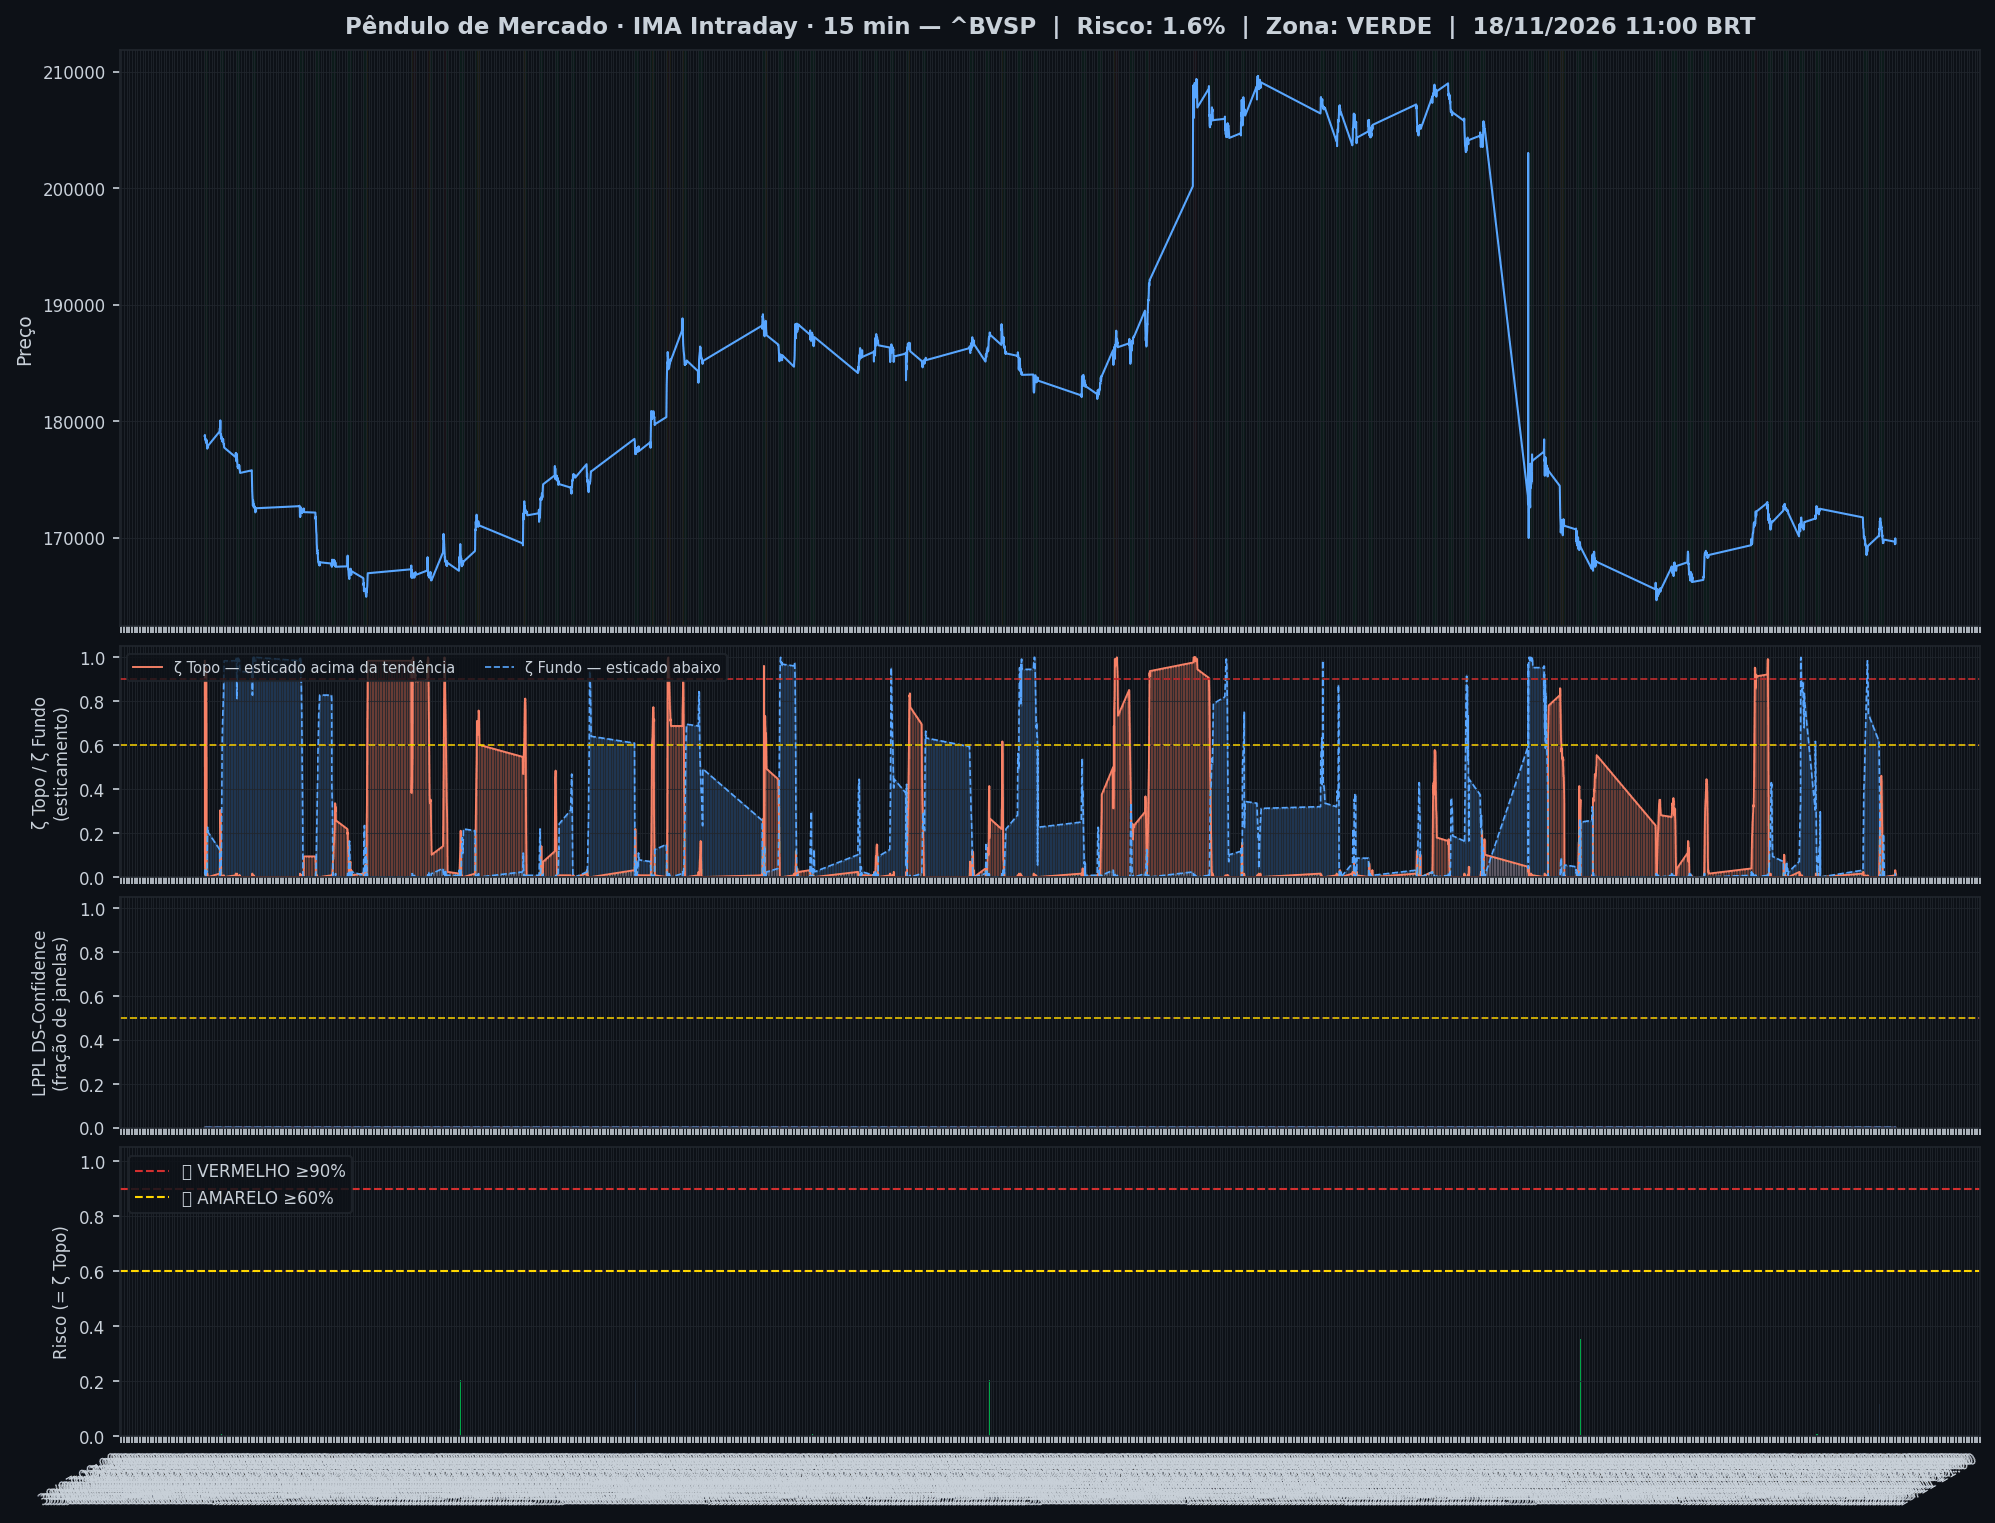
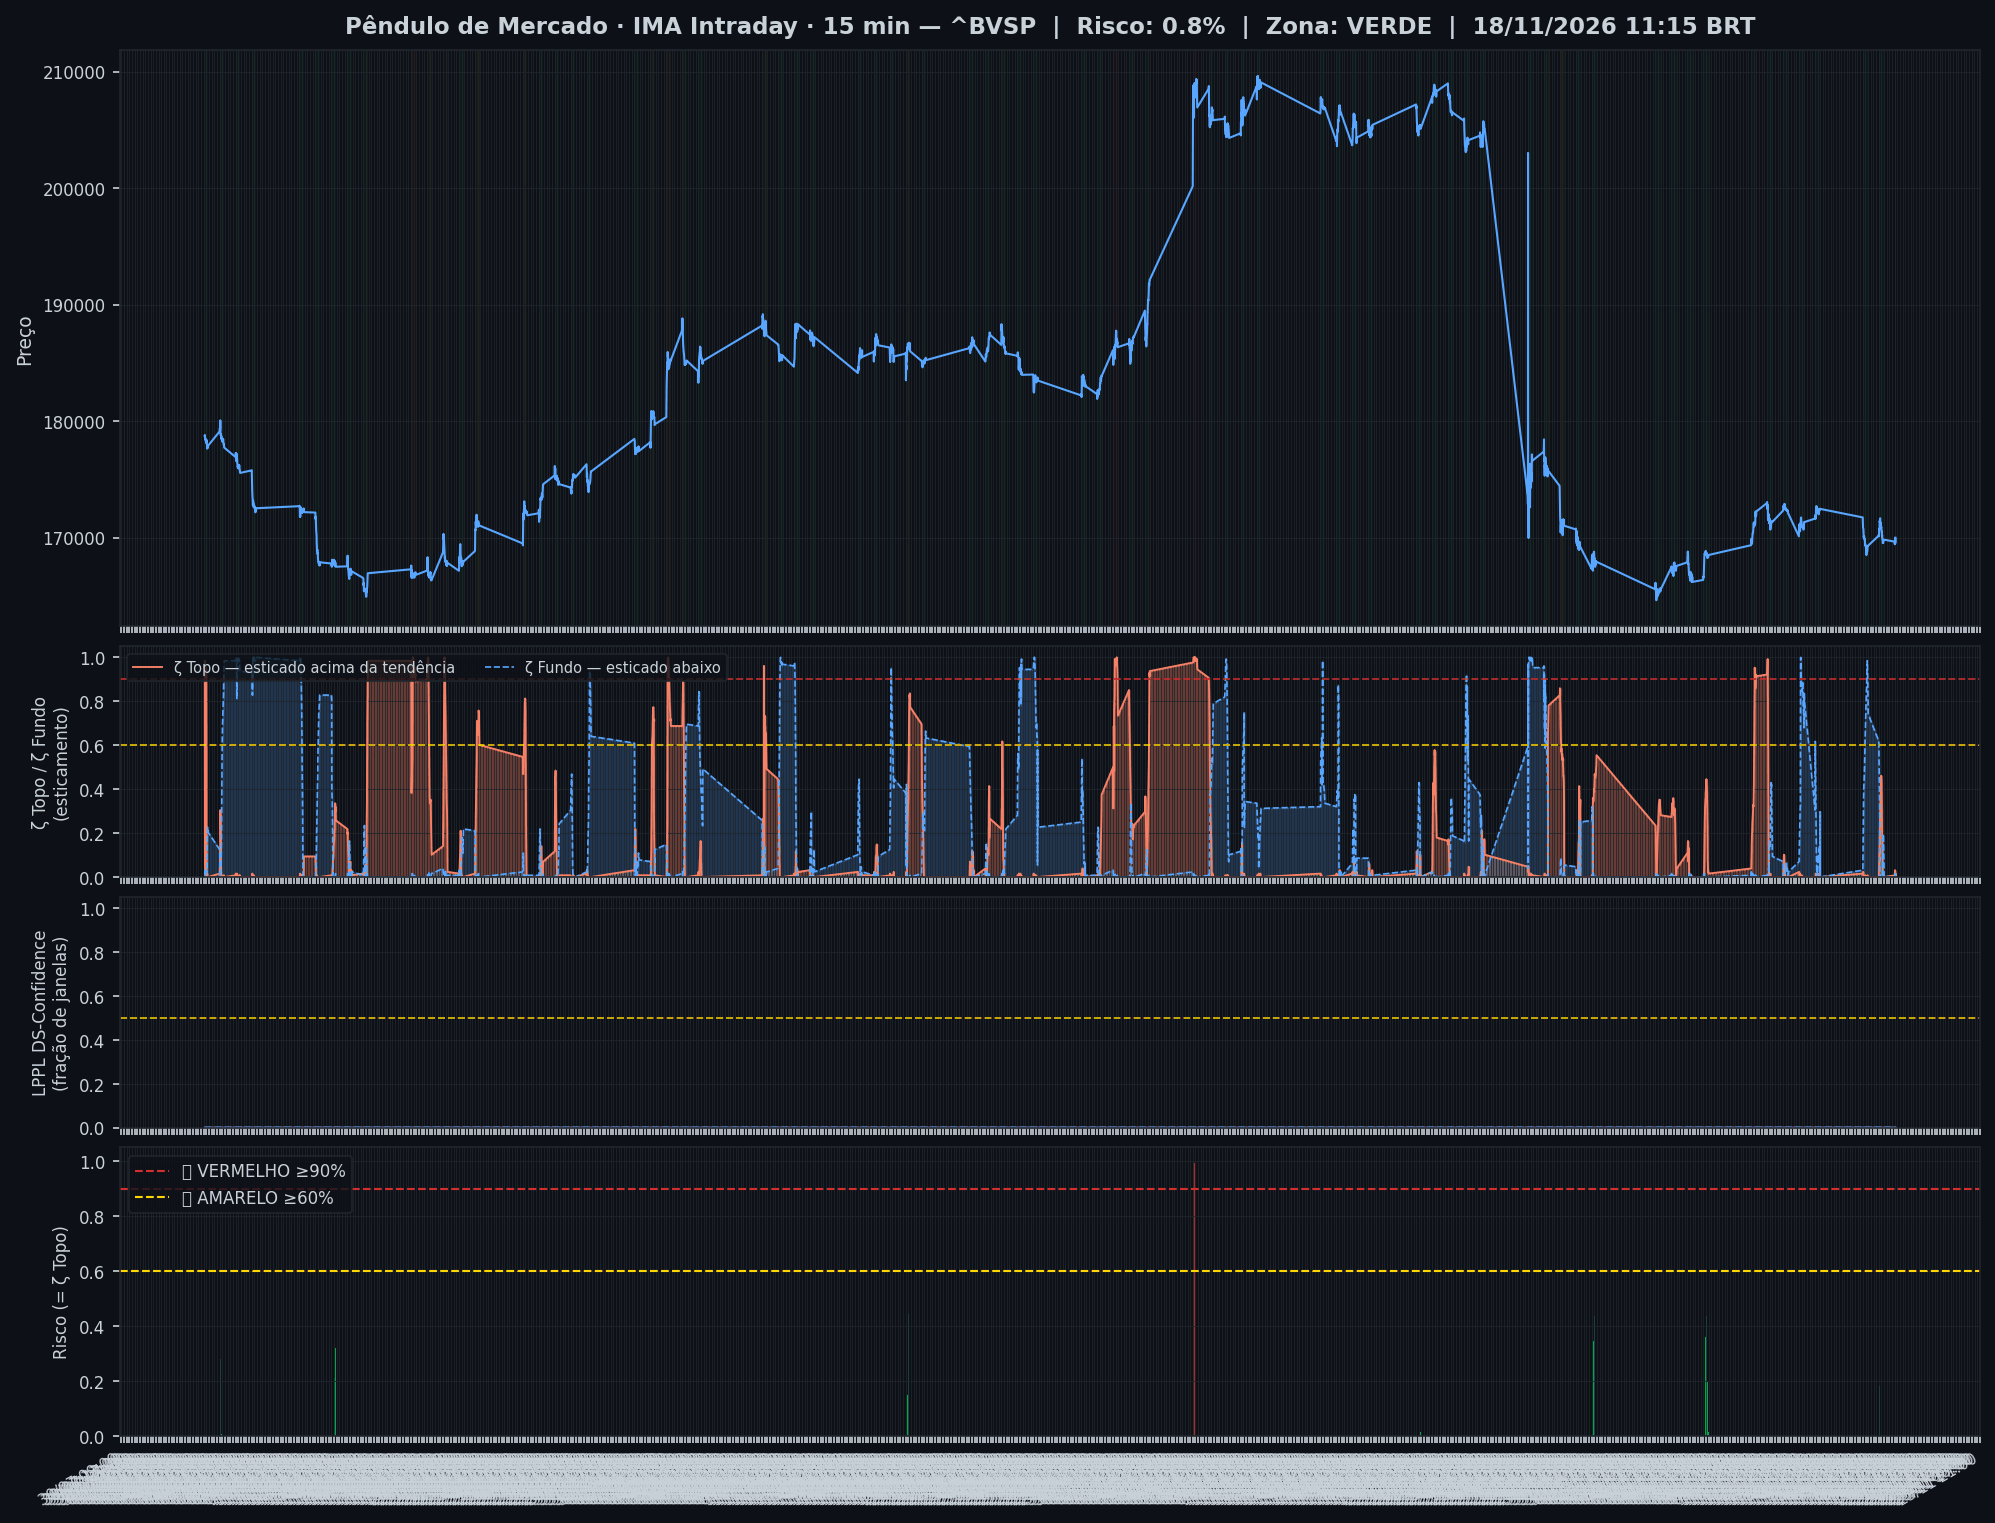
🤖 Auto: Sinal 18/11/2026 11:31

diff --git a/content/intraday/2026-11-18.md b/content/intraday/2026-11-18.md
@@ -1,10 +1,10 @@
 ---
-title: "🟢 Intraday 18/11/2026 11:00 BRT — VERDE"
+title: "🟢 Intraday 18/11/2026 11:15 BRT — VERDE"
 date: 2026-11-18
 tags: [intraday]
 ---
 
-> [!success] Onde o mercado está agora (18/11 11:00, candles de 15 min): **🟢 Calmo**
+> [!success] Onde o mercado está agora (18/11 11:15, candles de 15 min): **🟢 Calmo**
 > `Pânico ◀──────────●──────────▶ Euforia`
 >
 > O Ibovespa está dentro da sua faixa normal, sem excesso para cima nem para baixo.
@@ -20,7 +20,7 @@ tags: [intraday]
 > | 📍 **Sinais** | hoje: nenhum sinal | [abrir](sinais-topo-fundo/) |
 > | 🧪 **Placar ao vivo** | 1 operação(ões), 0 com lucro, soma -0,8% | [abrir](operacoes/) |
 
-> [!success] IMA Intraday · 15 min (18/11 11:00): 🟢 **VERDE** — Risco 2% · ▲ +1 p.p. vs leitura anterior
+> [!success] IMA Intraday · 15 min (18/11 11:15): 🟢 **VERDE** — Risco 1% · ▼ -1 p.p. vs leitura anterior
 > `░░░░░░░░░░░░░░░░░░░░`
 > Preço na faixa normal em torno da tendência.
 
@@ -32,13 +32,13 @@ tags: [intraday]
 >
 > *Leitura educacional baseada em 26 anos de dados, não recomendação. [Como usar](../metodologia/crise#3-como-usar-na-prática).*
 
-| Indicador — IMA Intraday · 15 min (18/11 11:00) | Valor |
+| Indicador — IMA Intraday · 15 min (18/11 11:15) | Valor |
 |---|---|
-| 🔴 ζ Topo — preço esticado acima da tendência | **2%** |
-| 🔵 ζ Fundo — preço esticado abaixo da tendência | 2% |
+| 🔴 ζ Topo — preço esticado acima da tendência | **1%** |
+| 🔵 ζ Fundo — preço esticado abaixo da tendência | 1% |
 | 🫧 LPPL bolha — alta super-exponencial (risco de crash) | 0% |
 | 🫧 LPPL antibolha — queda super-exponencial (risco de repique) | 0% |
-| 📊 Ibovespa | 169.500 pts |
+| 📊 Ibovespa | 169.989 pts |
 
 ![Gráfico do sinal](../graficos/sinal_intraday.png)
 
@@ -46,6 +46,7 @@ tags: [intraday]
 
 | Data | Zona | Evento | Risco | ζ Topo | ζ Fundo | LPPL |
 |---|---|---|---|---|---|---|
+| 2026-11-18 11:15 | 🟢 VERDE |  | **1%** | 1% | 1% | 0% |
 | 2026-11-18 11:00 | 🟢 VERDE |  | **2%** | 2% | 2% | 0% |
 | 2026-11-18 10:45 | 🟢 VERDE |  | **1%** | 1% | 2% | 0% |
 | 2026-11-18 10:30 | 🟢 VERDE |  | **2%** | 2% | 2% | 0% |
@@ -75,49 +76,51 @@ tags: [intraday]
 | 2026-11-17 12:45 | 🟢 VERDE |  | **38%** | 38% | 0% | 0% |
 | 2026-11-17 12:30 | 🟢 VERDE |  | **37%** | 37% | 0% | 0% |
 | 2026-11-17 12:15 | 🟢 VERDE |  | **33%** | 33% | 0% | 0% |
-| 2026-11-17 12:00 | 🟢 VERDE |  | **29%** | 29% | 1% | 0% |
 
 <small>Destaques: 🟡 ≥ 60% · 🔴 ≥ 90% (Risco e ζ Topo) · 🔵 ≥ 60% · 🔪 ≥ 90% (ζ Fundo) · 🫧 ≥ 30% · 🫧🔴 ≥ 50% (LPPL)</small>
 
 ## Monitor Multi-Ativo
 
-**0% dos ativos em tensão** (0🔴 0🟡) · **0 com ζ Fundo alto** — quanto mais ativos disparam juntos, mais confiável o sinal.
+**0% dos ativos em tensão** (0🔴 0🟡) · **1 com ζ Fundo alto** — quanto mais ativos disparam juntos, mais confiável o sinal.
+
+> [!warning] Em destaque no multi-ativo
+> 🔵 **SUZANO S.A.** ζ Fundo 70%
 
 | Zona | Ativo | Setor | ζ Topo | ζ Fundo |
 |---|---|---|---|---|
-| 🟢 | **AMBEV S/A** | Consumo | 0.0% | 59.4% |
-| 🟢 | **PRIO** | Petróleo | 0.0% | 51.6% |
-| 🟢 | **PETROBRAS** | Petróleo | 0.0% | 46.1% |
-| 🟢 | **BTGP BANCO** | Financeiro | 0.0% | 43.0% |
-| 🟢 | **BRASIL** | Financeiro | 0.8% | 36.7% |
-| 🟢 | **REDE D OR** | Saúde | 33.6% | 0.0% |
-| 🟢 | **LOCALIZA** | Aluguel | 28.9% | 0.8% |
-| 🟢 | **USD/BRL** | Câmbio | 3.9% | 24.2% |
-| 🟢 | **ENEVA** | Energia | 0.0% | 23.4% |
-| 🟢 | **RUMO S.A.** | Outros | 0.0% | 21.9% |
-| 🟢 | **WEG** | Industrial | 4.7% | 20.3% |
-| 🟢 | **VIBRA** | Energia | 0.0% | 19.5% |
-| 🟢 | **AXIA ENERGIA** | Energia | 0.0% | 16.4% |
-| 🟢 | **B3** | Financeiro | 1.6% | 16.4% |
-| 🟢 | **GERDAU** | Siderurgia | 16.4% | 0.8% |
-| 🟢 | **VALE** | Mineração | 0.0% | 10.9% |
-| 🟢 | **ULTRAPAR** | Outros | 0.0% | 10.9% |
-| 🟢 | **ITAUUNIBANCO** | Financeiro | 0.0% | 10.2% |
-| 🟢 | **SUZANO S.A.** | Papel/Celulose | 9.4% | 3.9% |
-| 🟢 | **BRADESCO** | Financeiro | 7.8% | 0.8% |
-| 🟢 | **EMBRAER** | Outros | 0.8% | 5.5% |
-| 🟢 | **SABESP** | Saneamento | 0.0% | 3.9% |
-| 🟢 | **TELEF BRASIL** | Outros | 0.8% | 3.9% |
-| 🟢 | **ITAUSA** | Financeiro | 0.0% | 3.1% |
-| 🟢 | **EQUATORIAL** | Energia | 0.0% | 2.3% |
-| 🟢 | **PETROBRAS** | Petróleo | 0.8% | 1.6% |
+| 🟢 | **SUZANO S.A.** | Papel/Celulose | 7.8% | 🔵 **69.5%** |
+| 🟢 | **AMBEV S/A** | Consumo | 0.0% | 56.2% |
+| 🟢 | **PETROBRAS** | Petróleo | 0.0% | 53.9% |
+| 🟢 | **PRIO** | Petróleo | 0.0% | 53.9% |
+| 🟢 | **BRASIL** | Financeiro | 1.6% | 34.4% |
+| 🟢 | **REDE D OR** | Saúde | 34.4% | 0.0% |
+| 🟢 | **ENEVA** | Energia | 0.8% | 32.8% |
+| 🟢 | **LOCALIZA** | Aluguel | 32.0% | 0.8% |
+| 🟢 | **USD/BRL** | Câmbio | 1.6% | 24.2% |
+| 🟢 | **RUMO S.A.** | Outros | 0.0% | 23.4% |
+| 🟢 | **GERDAU** | Siderurgia | 20.3% | 0.8% |
+| 🟢 | **B3** | Financeiro | 0.0% | 19.5% |
+| 🟢 | **WEG** | Industrial | 3.9% | 16.4% |
+| 🟢 | **VIBRA** | Energia | 0.0% | 15.6% |
+| 🟢 | **VALE** | Mineração | 0.8% | 12.5% |
+| 🟢 | **AXIA ENERGIA** | Energia | 0.0% | 11.7% |
+| 🟢 | **BRADESCO** | Financeiro | 10.2% | 0.0% |
+| 🟢 | **BTGP BANCO** | Financeiro | 0.0% | 8.6% |
+| 🟢 | **ULTRAPAR** | Outros | 0.0% | 7.8% |
+| 🟢 | **ITAUUNIBANCO** | Financeiro | 0.8% | 7.0% |
+| 🟢 | **SABESP** | Saneamento | 0.0% | 4.7% |
+| 🟢 | **TELEF BRASIL** | Outros | 0.0% | 4.7% |
+| 🟢 | **EMBRAER** | Outros | 2.3% | 3.9% |
+| 🟢 | **EQUATORIAL** | Energia | 0.0% | 3.1% |
+| 🟢 | **ITAUSA** | Financeiro | 0.0% | 2.3% |
+| 🟢 | **PETROBRAS** | Petróleo | 0.0% | 0.8% |
 | 🟢 | **COPEL** | Energia | 0.8% | 0.8% |
 
 <small>Destaques: 🟡 ≥ 60% · 🔴 ≥ 90% (Risco e ζ Topo) · 🔵 ≥ 60% · 🔪 ≥ 90% (ζ Fundo) · 🫧 ≥ 30% · 🫧🔴 ≥ 50% (LPPL)</small>
 
 ![Monitor multi-ativo](../graficos/multi_intraday.png)
 
-*Página atualizada em 18/11/2026 11:15 BRT (leitura da barra de 2026-11-18 11:00 BRT).*
+*Página atualizada em 18/11/2026 11:30 BRT (leitura da barra de 2026-11-18 11:15 BRT).*
 
 > [!warning] O que este indicador não faz
 > Medido em 5 anos de Ibovespa, o ζ **não antecipa** topos nem fundos: a capacidade de separar o que sobe do que cai ficou em 0,49–0,52, e 0,50 é moeda jogada ao ar. Ele descreve o estado de agora; não é aviso do que vem. As zonas verde/amarelo/vermelho continuam na página como descrição desse estado — **não as use como sinal de entrada ou saída**.

diff --git a/content/index.md b/content/index.md
@@ -6,9 +6,9 @@ tags: [home]
 
 **As ondas do mercado, explicadas.** Leitura do Ibovespa com estatística de 26 anos, baseada no trabalho de pesquisadores e traders reconhecidos e adaptada por Jarbas Daniel da Costa.
 
-*Última atualização: 18/11/2026 11:15 BRT · Intraday 15min*
+*Última atualização: 18/11/2026 11:30 BRT · Intraday 15min*
 
-> [!success] Onde o mercado está agora (18/11 11:00, candles de 15 min): **🟢 Calmo**
+> [!success] Onde o mercado está agora (18/11 11:15, candles de 15 min): **🟢 Calmo**
 > `Pânico ◀──────────●──────────▶ Euforia`
 >
 > O Ibovespa está dentro da sua faixa normal, sem excesso para cima nem para baixo.
@@ -20,7 +20,7 @@ tags: [home]
 
 | Módulo | Agora | |
 |---|---|---|
-| 🌊 **Sinal IMA** | 🟢 VERDE · 🟢 calmo · ζ Topo 2% | [relatório](intraday/2026-11-18) |
+| 🌊 **Sinal IMA** | 🟢 VERDE · 🟢 calmo · ζ Topo 1% | [relatório](intraday/2026-11-18) |
 | 📈 **Tendência MME9** | Diário — fora<br>Semanal — fora | [abrir](operacoes/tendencia) |
 | 🎯 **Entradas do método** | ⏳ aguardando: Diário · Semáforo N3 após ζ Fundo | [abrir](operacoes/entradas) |
 | 📍 **Sinais** | hoje: nenhum sinal | [abrir](sinais-topo-fundo/) |
@@ -44,18 +44,18 @@ tags: [home]
 > *Leitura educacional baseada em 26 anos de dados, não recomendação. [Como usar](metodologia/crise#3-como-usar-na-prática).*
 
 > [!info]- 🌊 Detalhes do Sinal IMA (indicadores e últimos 7 pregões)
-> > [!success] IMA Intraday · 15 min (18/11 11:00): 🟢 **VERDE** — Risco 2% · ▲ +1 p.p. vs leitura anterior
+> > [!success] IMA Intraday · 15 min (18/11 11:15): 🟢 **VERDE** — Risco 1% · ▼ -1 p.p. vs leitura anterior
 > > `░░░░░░░░░░░░░░░░░░░░`
 > > Preço na faixa normal em torno da tendência.
 >
 >
-> | Indicador — IMA Intraday · 15 min (18/11 11:00) | Valor |
+> | Indicador — IMA Intraday · 15 min (18/11 11:15) | Valor |
 > |---|---|
-> | 🔴 ζ Topo — preço esticado acima da tendência | **2%** |
-> | 🔵 ζ Fundo — preço esticado abaixo da tendência | 2% |
+> | 🔴 ζ Topo — preço esticado acima da tendência | **1%** |
+> | 🔵 ζ Fundo — preço esticado abaixo da tendência | 1% |
 > | 🫧 LPPL bolha — alta super-exponencial (risco de crash) | 0% |
 > | 🫧 LPPL antibolha — queda super-exponencial (risco de repique) | 0% |
-> | 📊 Ibovespa | 169.500 pts |
+> | 📊 Ibovespa | 169.989 pts |
 >
 > **Multi-ativo:** 0% em tensão (0🔴 0🟡 de 27 ativos)
 >
@@ -63,7 +63,7 @@ tags: [home]
 >
 > | Data | Zona | Risco | ζ Topo | ζ Fundo | LPPL |
 > |---|---|---|---|---|---|
-> | [18/11/2026](intraday/2026-11-18) | 🟢 VERDE | **2%** | 2% | 2% | 0% |
+> | [18/11/2026](intraday/2026-11-18) | 🟢 VERDE | **1%** | 1% | 1% | 0% |
 > | [17/11/2026](intraday/2026-11-17) | 🟢 VERDE | **0%** | 0% | 0% | 0% |
 >
 > <small>Destaques: 🟡 ≥ 60% · 🔴 ≥ 90% (Risco e ζ Topo) · 🔵 ≥ 60% · 🔪 ≥ 90% (ζ Fundo) · 🫧 ≥ 30% · 🫧🔴 ≥ 50% (LPPL)</small>

diff --git a/content/integridade/index.md b/content/integridade/index.md
@@ -5,7 +5,7 @@ description: "O que foi conferido, contra qual fonte e quando — medido na hora
 tags: [integridade]
 ---
 
-*Pregão conferido: **17/11/2026**, com 61 tabelas no acervo · página gerada em 18/11/2026 11:27*
+*Pregão conferido: **17/11/2026**, com 61 tabelas no acervo · página gerada em 18/11/2026 11:30*
 
 O pregão conferido é o último **fechado e arquivado inteiro**, não o de hoje: enquanto o dia corre, só algumas tabelas estão gravadas, e conferir um dia pela metade produziria alarme falso.
 
@@ -22,7 +22,7 @@ Esta página não declara que o site está correto. Ela **mede** e escreve o res
 | Tabelas com conteúdo fora da curva | nenhuma |
 | Páginas publicadas | 353 |
 | Conferências cruzadas das páginas | 71 certas, nenhuma divergência |
-| Página escrita mais recentemente | 18/11 11:27 |
+| Página escrita mais recentemente | 18/11 11:30 |
 | Páginas sem data no cabeçalho | 8 — cegas para a conferência de dado |
 
 ## 1 · Acervo do boletim diário

diff --git a/content/historico.md b/content/historico.md
@@ -5,7 +5,7 @@ tags: [historico]
 
 # 📜 Histórico de leituras (v5)
 
-**2.452 leituras** desde 2026-07-03. Na página ficam os últimos 3 dias leitura por leitura e o resumo de cada dia anterior; o registro inteiro está no arquivo para baixar.
+**2.453 leituras** desde 2026-07-03. Na página ficam os últimos 3 dias leitura por leitura e o resumo de cada dia anterior; o registro inteiro está no arquivo para baixar.
 
 [**Baixar o histórico completo**](historico-completo.csv) (107 KB · abre no Excel e no LibreOffice)
 
@@ -16,6 +16,7 @@ tags: [historico]
 
 | Data | Modo | Zona | Risco | IMA | LPPL |
 |---|---|---|---|---|---|
+| 2026-11-18 11:15 | intraday | 🟢 VERDE | 1% | 1% | 0% |
 | 2026-11-18 11:00 | intraday | 🟢 VERDE | 2% | 2% | 0% |
 | 2026-11-18 10:45 | intraday | 🟢 VERDE | 1% | 1% | 0% |
 | 2026-11-18 10:30 | intraday | 🟢 VERDE | 2% | 2% | 0% |

diff --git a/content/operacoes/ranking.md b/content/operacoes/ranking.md
@@ -5,7 +5,7 @@ tags: [operacoes]
 description: "As regras de compra do site ordenadas pelo resultado, com treino, teste e placar ao vivo"
 ---
 
-*Atualizado 18/11/2026 11:15 · histórico simulado com as regras congeladas em 23/10/2026 + placar ao vivo.*
+*Atualizado 18/11/2026 11:30 · histórico simulado com as regras congeladas em 23/10/2026 + placar ao vivo.*
 
 As regras de compra do site, **da que mais rendeu para a que menos rendeu**. O resultado é por operação, no índice à vista, sem custos e sem juros compostos (a soma é só a soma das operações). **Treino** = entradas de 2001 a 2013 e **teste** = 2014 em diante: uma regra só é confiável se ganhou nos dois. O único resultado sem nenhum ajuste ao histórico é o **placar ao vivo**.
 

diff --git a/content/linha-do-tempo/index.md b/content/linha-do-tempo/index.md
@@ -5,7 +5,7 @@ description: "Todo sinal, ordem, stop e aviso do Pêndulo de Mercado, do mais re
 tags: [eventos]
 ---
 
-*Atualizada 18/11/2026 11:15 BRT · a cada 15 min no pregão e às 19h.*
+*Atualizada 18/11/2026 11:30 BRT · a cada 15 min no pregão e às 19h.*
 
 Tudo o que o sistema fez ou detectou, **do mais recente para o mais antigo**: sinais de topo e fundo, ordens de compra e de venda armadas, compras, vendas, stops, avisos de 🚨 preço perto do nível e mudanças do Sinal IMA. Os **últimos 7 dias** ficam abertos; o resto, por **ano → mês → dia**.
 

diff --git a/content/avisos/index.md b/content/avisos/index.md
@@ -2,7 +2,7 @@
 title: "⚠ Avisos: o que saber antes de usar os números"
 ---
 
-*Gerado em 18/11/2026 11:27*
+*Gerado em 18/11/2026 11:30*
 
 Este site publica muitos números, e cada um tem uma limitação que importa na hora de
 decidir. As limitações estão escritas nas próprias páginas, mas quem chega direto numa
